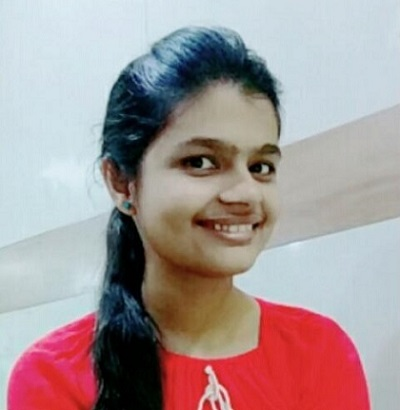
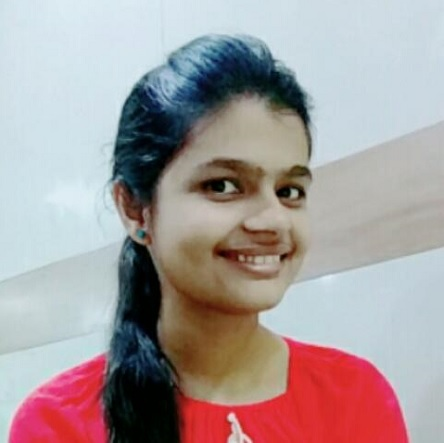
appu 31-03-18 admin panel

Changed region(s): [[0.0, 0.0585, 1.0, 1.0], [0.0, 0.761, 0.12, 0.8195]]

diff --git a/Creathon/src/main/resources/static/delhiAssets/css/style.css b/Creathon/src/main/resources/static/delhiAssets/css/style.css
@@ -1132,6 +1132,8 @@ section.team{
     width: 100%;
     border-radius: 50%;
     padding: 22px;
+    min-height: 260px;
+    max-height: 340px;
 }
 .inner-team1{
 	padding:0 0 10px 0;

diff --git a/Creathon/src/main/java/com/creathon/bean/Complaint.java b/Creathon/src/main/java/com/creathon/bean/Complaint.java
@@ -1,0 +1,87 @@
+package com.creathon.bean;
+
+import javax.persistence.Column;
+import javax.persistence.Entity;
+import javax.persistence.GeneratedValue;
+import javax.persistence.GenerationType;
+import javax.persistence.Id;
+import javax.persistence.JoinColumn;
+import javax.persistence.OneToOne;
+import javax.persistence.Table;
+
+
+@Entity
+@Table(name="greivance")
+public class Complaint {
+	@Id
+    @GeneratedValue(strategy = GenerationType.IDENTITY)
+    @Column(name = "id")
+	private Integer id;
+	
+	@JoinColumn(name = "sa_id")
+	@OneToOne
+	private ShootApplication shootApplicationId;
+	
+	@Column(name = "type")
+	private String type;
+	
+	@Column(name = "description")
+	private String description;
+	
+	@Column(name = "status")
+	private String status;
+	
+	@Column(name = "subject")
+	private String subject;
+
+	public Integer getId() {
+		return id;
+	}
+
+	public void setId(Integer id) {
+		this.id = id;
+	}
+
+	public ShootApplication getShootApplicationId() {
+		return shootApplicationId;
+	}
+
+	public void setShootApplicationId(ShootApplication shootApplicationId) {
+		this.shootApplicationId = shootApplicationId;
+	}
+
+	public String getType() {
+		return type;
+	}
+
+	public void setType(String type) {
+		this.type = type;
+	}
+
+	public String getDescription() {
+		return description;
+	}
+
+	public void setDescription(String description) {
+		this.description = description;
+	}
+
+	public String getStatus() {
+		return status;
+	}
+
+	public void setStatus(String status) {
+		this.status = status;
+	}
+
+	public String getSubject() {
+		return subject;
+	}
+
+	public void setSubject(String subject) {
+		this.subject = subject;
+	}
+	
+	
+
+}

diff --git a/Creathon/src/main/java/com/creathon/controller/AdminController.java b/Creathon/src/main/java/com/creathon/controller/AdminController.java
@@ -1,17 +1,23 @@
 package com.creathon.controller;
 
+import java.util.List;
+
+import org.springframework.beans.factory.annotation.Autowired;
 import org.springframework.stereotype.Controller;
 import org.springframework.ui.ModelMap;
 import org.springframework.web.bind.annotation.RequestMapping;
 import org.springframework.web.bind.annotation.RequestMethod;
 import org.springframework.web.servlet.ModelAndView;
 
+import com.creathon.bean.ShootApplication;
+import com.creathon.service.AdminService;
+
 
 @Controller
 public class AdminController {
 
-	/*@Autowired
-	AdminService */
+	@Autowired
+	AdminService adminService;
 	
 	 @RequestMapping(value="/adminDashboard", method = RequestMethod.GET)
 	    public ModelAndView adminDashboard(ModelMap model){
@@ -30,6 +36,15 @@ public class AdminController {
 	 @RequestMapping(value="/notAnsweredApplication", method = RequestMethod.GET)
 	    public ModelAndView notAnsweredApplication(ModelMap model){
 	    	ModelAndView mav = new ModelAndView("not_answered_application");
+	    	
+	    	List<ShootApplication> notAnsweredApplicationList = adminService.notViewedApplicationList();
+	    	if(notAnsweredApplicationList.size() == 0 || notAnsweredApplicationList.isEmpty()) {
+	    		mav.addObject("error", "All the applications are answered till date");
+	    	}else {
+	    		mav.addObject("notAnsweredApplicationList", notAnsweredApplicationList);
+	    		mav.addObject("success", "The list of applications which are not viewed in 48 hours are as follows");
+	    	}
+	    	
 	    	
 	        return mav;
 	    }

diff --git a/Creathon/src/main/java/com/creathon/serviceImpl/AdminServiceImpl.java b/Creathon/src/main/java/com/creathon/serviceImpl/AdminServiceImpl.java
@@ -1,5 +1,6 @@
 package com.creathon.serviceImpl;
 
+import java.util.ArrayList;
 import java.util.List;
 
 import org.springframework.beans.factory.annotation.Autowired;
@@ -8,6 +9,7 @@ import org.springframework.stereotype.Service;
 import com.creathon.bean.ShootApplication;
 import com.creathon.dao.AdminDao;
 import com.creathon.service.AdminService;
+import com.creathon.service.ShootApplicationService;
 
 @Service
 public class AdminServiceImpl implements AdminService{
@@ -15,10 +17,19 @@ public class AdminServiceImpl implements AdminService{
 	@Autowired
 	AdminDao adminDao;
 	
+	@Autowired
+	ShootApplicationService shootApplicationService;
+	
 	@Override
 	public List<ShootApplication> notViewedApplicationList() {
 		// TODO Auto-generated method stub
-		return adminDao.notViewedApplicationList();
+		List<Integer> applicationIntegerList = adminDao.notViewedApplicationList();
+		List<ShootApplication> notViewedApplicationList = new ArrayList<ShootApplication>();
+		for (Integer applicationId : applicationIntegerList) {
+			ShootApplication shootApplication2 = shootApplicationService.findById(applicationId);
+			notViewedApplicationList.add(shootApplication2);
+		}
+		return notViewedApplicationList;
 	}
 
 }

diff --git a/Creathon/src/main/java/com/creathon/controller/ComplaintController.java b/Creathon/src/main/java/com/creathon/controller/ComplaintController.java
@@ -1,0 +1,35 @@
+package com.creathon.controller;
+
+import javax.servlet.http.HttpSession;
+
+import org.springframework.beans.factory.annotation.Autowired;
+import org.springframework.stereotype.Controller;
+import org.springframework.ui.ModelMap;
+import org.springframework.web.bind.annotation.RequestMapping;
+import org.springframework.web.bind.annotation.RequestMethod;
+import org.springframework.web.servlet.ModelAndView;
+
+import com.creathon.bean.Complaint;
+import com.creathon.bean.SessionBean;
+import com.creathon.service.ComplaintService;
+import com.creathon.service.ShootApplicationService;
+
+@Controller
+public class ComplaintController {
+
+	@Autowired
+	ComplaintService complaintService;
+	
+	@Autowired
+	ShootApplicationService shootApplicationService;
+	
+	 @RequestMapping(value="/complaint", method = RequestMethod.GET)
+	    public ModelAndView complaint(ModelMap model,HttpSession session){
+		 SessionBean sessionBean = (SessionBean) session.getAttribute("sessionBean");
+	    	ModelAndView mav = new ModelAndView("complaint");
+	    	mav.addObject("complaint", new Complaint());
+	    	mav.addObject("", "");
+	        return mav;
+	    }
+	
+}

diff --git a/Creathon/src/main/java/com/creathon/daoImpl/AdminDaoImpl.java b/Creathon/src/main/java/com/creathon/daoImpl/AdminDaoImpl.java
@@ -19,11 +19,11 @@ public class AdminDaoImpl implements AdminDao{
 	SessionFactory sessionFactory;
 	
 	@Override
-	public List<ShootApplication> notViewedApplicationList() {
+	public List<Integer> notViewedApplicationList() {
 
-		List<ShootApplication> notViewedApplicationList = null;
+		List<Integer> notViewedApplicationList = null;
 		try {
-			notViewedApplicationList = sessionFactory.getCurrentSession().createSQLQuery("SELECT * FROM `shoot_application` where date_of_submission<=DATE_SUB(NOW(),INTERVAL 2 DAY) and status ="+'1').list();
+			notViewedApplicationList = sessionFactory.getCurrentSession().createSQLQuery("SELECT id FROM `shoot_application` where date_of_submission <= DATE_SUB( NOW(),INTERVAL 2 DAY ) and status!="+'6'+" and status!="+'7').list();
 			System.out.println(notViewedApplicationList);
 			return notViewedApplicationList;
 		}catch(Exception e) {

diff --git a/Creathon/src/main/java/com/creathon/daoImpl/ComplaintDaoImpl.java b/Creathon/src/main/java/com/creathon/daoImpl/ComplaintDaoImpl.java
@@ -1,0 +1,35 @@
+package com.creathon.daoImpl;
+
+import java.util.List;
+
+import javax.transaction.Transactional;
+
+import org.hibernate.SessionFactory;
+import org.springframework.beans.factory.annotation.Autowired;
+import org.springframework.stereotype.Repository;
+
+import com.creathon.bean.Complaint;
+import com.creathon.dao.ComplaintDao;
+
+@Transactional
+@Repository
+public class ComplaintDaoImpl implements ComplaintDao {
+
+	@Autowired
+	SessionFactory sessionFactory;
+	
+	@Override
+	public List<Complaint> allComplaints() {
+		List<Complaint> notViewedApplicationList = null;
+		try {
+			notViewedApplicationList = sessionFactory.getCurrentSession().createSQLQuery("from Complaint").list();
+			System.out.println(notViewedApplicationList);
+			return notViewedApplicationList;
+		}catch(Exception e) {
+			e.printStackTrace();
+			return null;
+		}
+	}
+	
+
+}

diff --git a/Creathon/src/main/java/com/creathon/bean/ShootApplication.java b/Creathon/src/main/java/com/creathon/bean/ShootApplication.java
@@ -270,7 +270,7 @@ public class ShootApplication implements Serializable {
 		this.dateOfSubmission = dateOfSubmission;
 	}
 
-	@Override
+	/*@Override
 	public String toString() {
 		return "ShootApplication [id=" + id + ", productionHouse=" + productionHouse + ", film=" + film + ", location="
 				+ location + ", noPeopleInCast=" + noPeopleInCast + ", dateOfShooting=" + dateOfShooting
@@ -281,13 +281,9 @@ public class ShootApplication implements Serializable {
 				+ filmingInAnyDefenseArea + ", detailOfDefenseArea=" + detailOfDefenseArea + ", status=" + status
 				+ ", viewStatus=" + viewStatus + ", aerialPhotography=" + aerialPhotography + ", locationPermissions="
 				+ locationPermissions + "]";
-	}
+	}*/
 
 	
-    
-    
-   
-
   
     
 }

diff --git a/Creathon/src/main/java/com/creathon/serviceImpl/ComplaintServiceImpl.java b/Creathon/src/main/java/com/creathon/serviceImpl/ComplaintServiceImpl.java
@@ -1,0 +1,23 @@
+package com.creathon.serviceImpl;
+
+import java.util.List;
+
+import org.springframework.beans.factory.annotation.Autowired;
+import org.springframework.stereotype.Service;
+
+import com.creathon.bean.Complaint;
+import com.creathon.dao.ComplaintDao;
+import com.creathon.service.ComplaintService;
+
+@Service
+public class ComplaintServiceImpl implements ComplaintService {
+
+	@Autowired
+	ComplaintDao complaintDao;
+	@Override
+	public List<Complaint> allComplaints() {
+		// TODO Auto-generated method stub
+		return complaintDao.allComplaints();
+	}
+
+}

diff --git a/Creathon/src/main/java/com/creathon/dao/AdminDao.java b/Creathon/src/main/java/com/creathon/dao/AdminDao.java
@@ -2,10 +2,9 @@ package com.creathon.dao;
 
 import java.util.List;
 
-import com.creathon.bean.ShootApplication;
 
 public interface AdminDao {
 
-	public List<ShootApplication> notViewedApplicationList();
+	public List<Integer> notViewedApplicationList();
 	
 }

diff --git a/Creathon/src/main/java/com/creathon/service/ComplaintService.java b/Creathon/src/main/java/com/creathon/service/ComplaintService.java
@@ -1,0 +1,10 @@
+package com.creathon.service;
+
+import java.util.List;
+
+import com.creathon.bean.Complaint;
+
+public interface ComplaintService {
+
+	public List<Complaint> allComplaints();
+}

diff --git a/Creathon/src/main/java/com/creathon/dao/ComplaintDao.java b/Creathon/src/main/java/com/creathon/dao/ComplaintDao.java
@@ -1,0 +1,10 @@
+package com.creathon.dao;
+
+import java.util.List;
+
+import com.creathon.bean.Complaint;
+
+public interface ComplaintDao {
+	public List<Complaint> allComplaints();
+
+}
